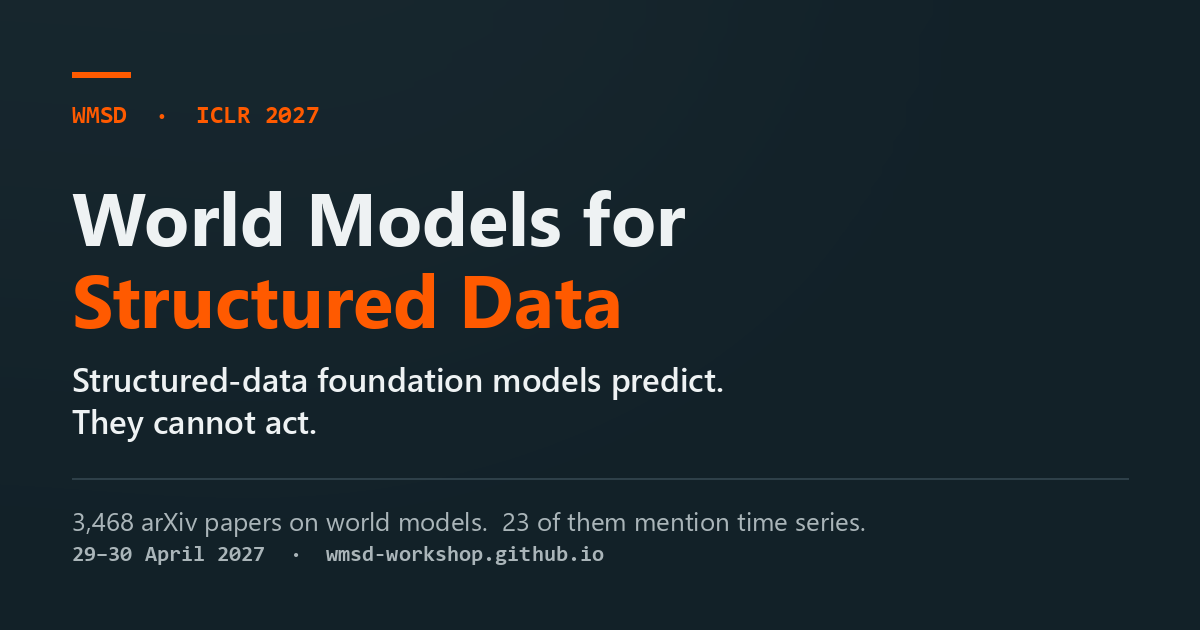
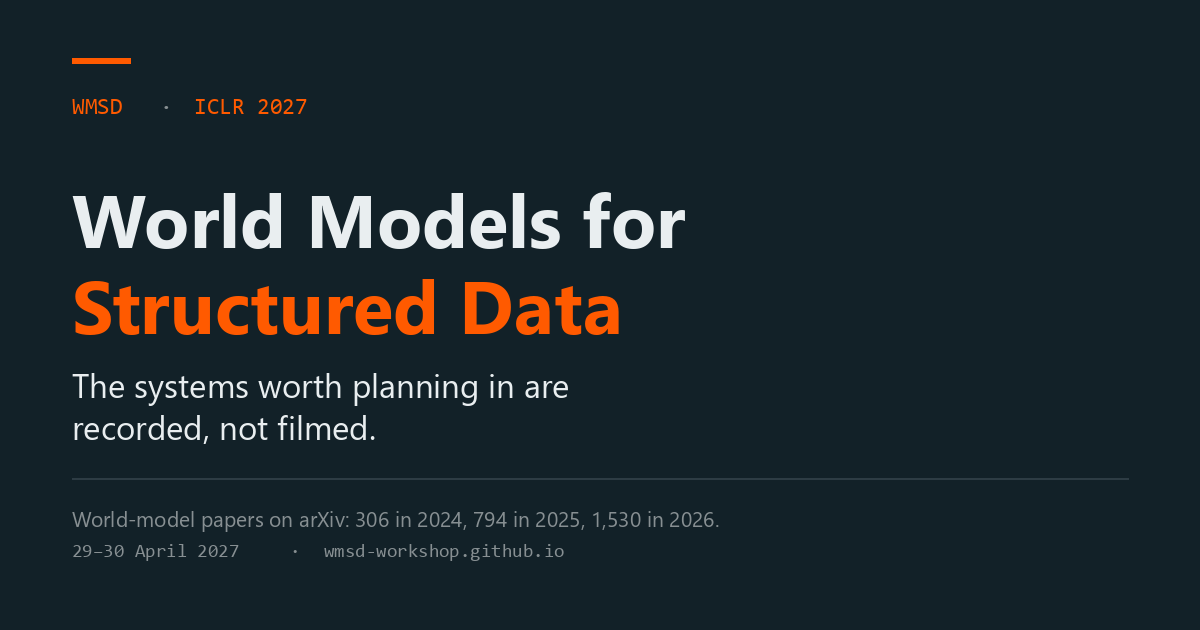
Refresh the social card for the new positioning and current counts

diff --git a/index.html b/index.html
@@ -17,7 +17,7 @@
 <meta property="og:image:type" content="image/png">
 <meta property="og:image:width" content="1200">
 <meta property="og:image:height" content="630">
-<meta property="og:image:alt" content="WMSD at ICLR 2027. World Models for Structured Data. Structured-data foundation models predict. They cannot act.">
+<meta property="og:image:alt" content="WMSD at ICLR 2027. World Models for Structured Data. The systems worth planning in are recorded, not filmed.">
 
 <meta name="twitter:card" content="summary_large_image">
 <meta name="twitter:title" content="WMSD @ ICLR 2027 - World Models for Structured Data">
